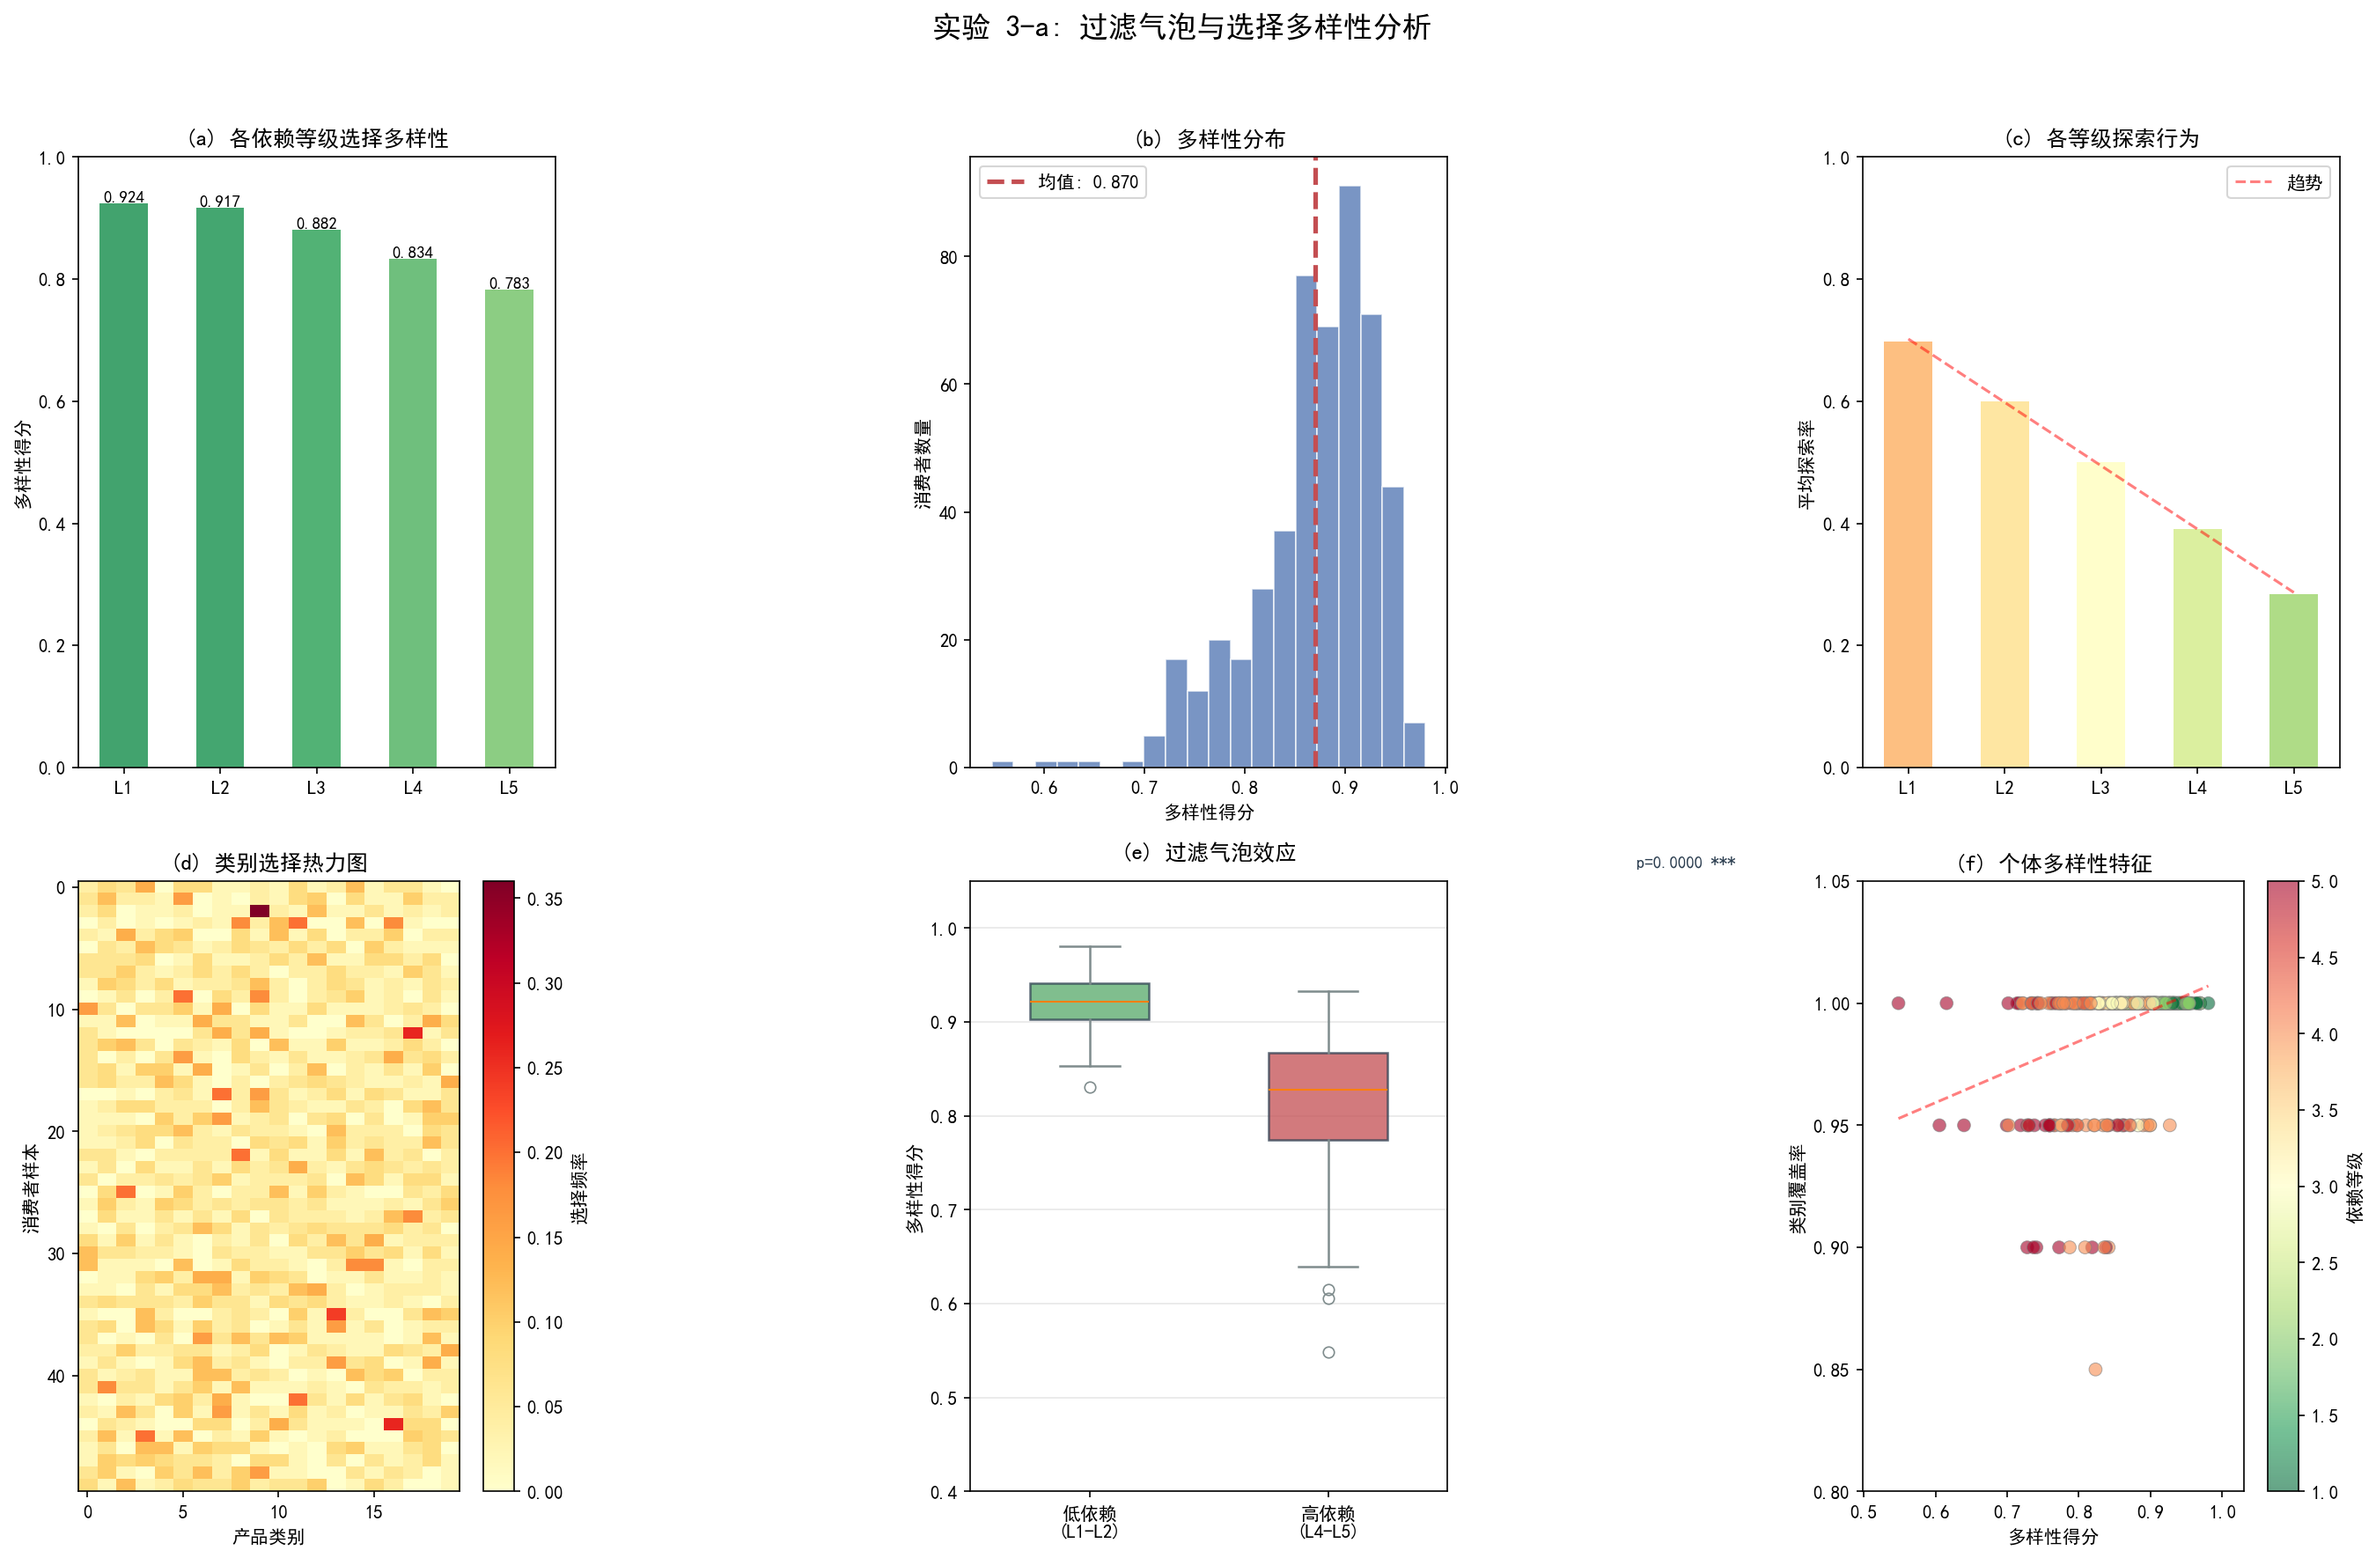
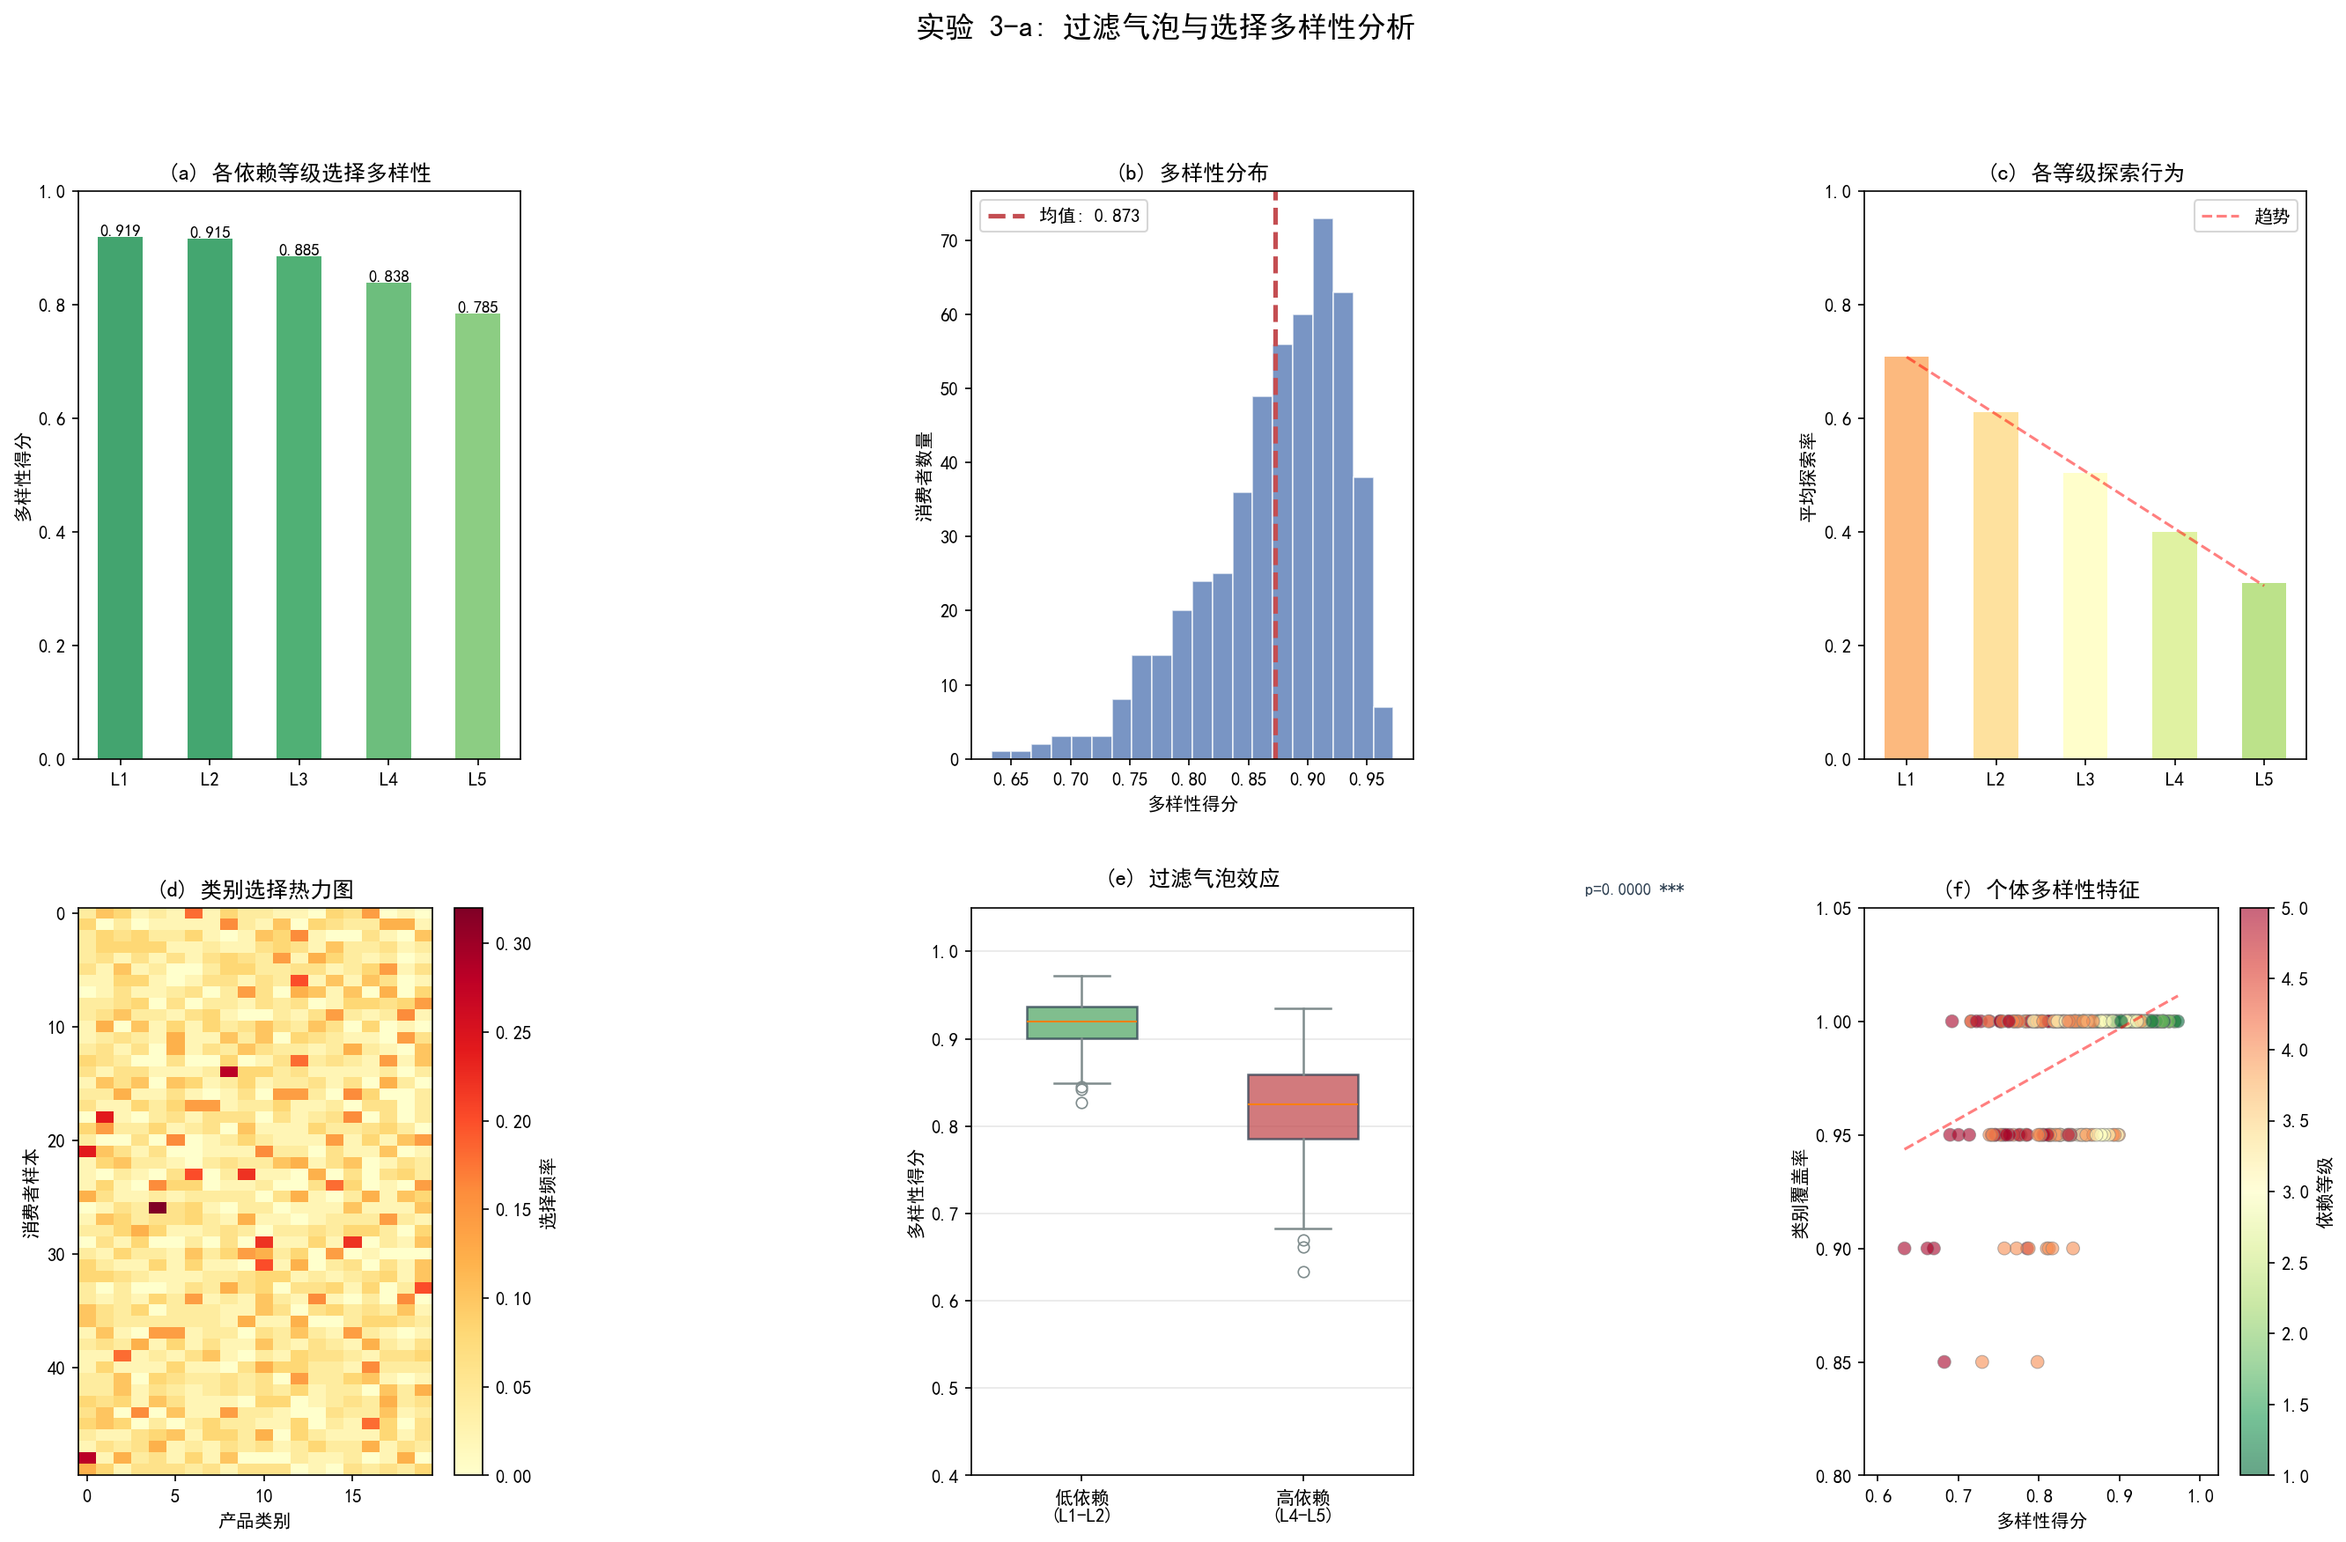
fix: 优化实验3可视化布局间距和背景色
- 增加子图间距参数:
  * pad=2.0: 整体内边距
  * h_pad=3.0: 垂直间距
  * w_pad=3.0: 水平间距
  * 避免子图过度拥挤

- 添加白色背景:
  * facecolor='white'确保导出PNG时有白色背景
  * 避免透明背景导致的显示问题

- 重新生成实验3-a和3-b图表:
  * 过滤气泡图: 2664x1751 (宽高比1.52)
  * 系统性风险图: 2646x1751 (宽高比1.51)

diff --git a/abm_simulation/experiments/exp3_consequences/systemic_risk/visualization_systemic_risk.py b/abm_simulation/experiments/exp3_consequences/systemic_risk/visualization_systemic_risk.py
@@ -48,8 +48,8 @@ def visualize_systemic_risk_results(main_result, stress_results, risk_model, out
     _plot_resilience_assessment(ax6, main_result, risk_model)
     
     plt.suptitle('实验 3-b: 系统性风险与级联失效分析', fontsize=16, fontweight='bold', y=0.98)
-    plt.tight_layout(rect=[0, 0, 1, 0.95])  # 为 suptitle 留出空间
-    plt.savefig(f'{output_dir}/systemic_risk_analysis.png', dpi=150, bbox_inches='tight')
+    plt.tight_layout(rect=[0, 0, 1, 0.95], pad=2.0, h_pad=3.0, w_pad=3.0)  # 增加子图间距
+    plt.savefig(f'{output_dir}/systemic_risk_analysis.png', dpi=150, bbox_inches='tight', facecolor='white')
     plt.close()
     
     print(f"  [OK] 系统性风险分析图已保存：{output_dir}/systemic_risk_analysis.png")

diff --git a/abm_simulation/experiments/exp3_consequences/filter_bubble/visualization_filter_bubble.py b/abm_simulation/experiments/exp3_consequences/filter_bubble/visualization_filter_bubble.py
@@ -48,8 +48,8 @@ def visualize_filter_bubble_results(analyzer, results, output_dir: str = None):
     _plot_individual_diversity(ax6, results)
     
     plt.suptitle('实验 3-a: 过滤气泡与选择多样性分析', fontsize=16, fontweight='bold', y=0.98)
-    plt.tight_layout(rect=[0, 0, 1, 0.95])  # 为 suptitle 留出空间
-    plt.savefig(f'{output_dir}/filter_bubble_analysis.png', dpi=150, bbox_inches='tight')
+    plt.tight_layout(rect=[0, 0, 1, 0.95], pad=2.0, h_pad=3.0, w_pad=3.0)  # 增加子图间距
+    plt.savefig(f'{output_dir}/filter_bubble_analysis.png', dpi=150, bbox_inches='tight', facecolor='white')
     plt.close()
     
     print(f"  [OK] 过滤气泡分析图已保存：{output_dir}/filter_bubble_analysis.png")
